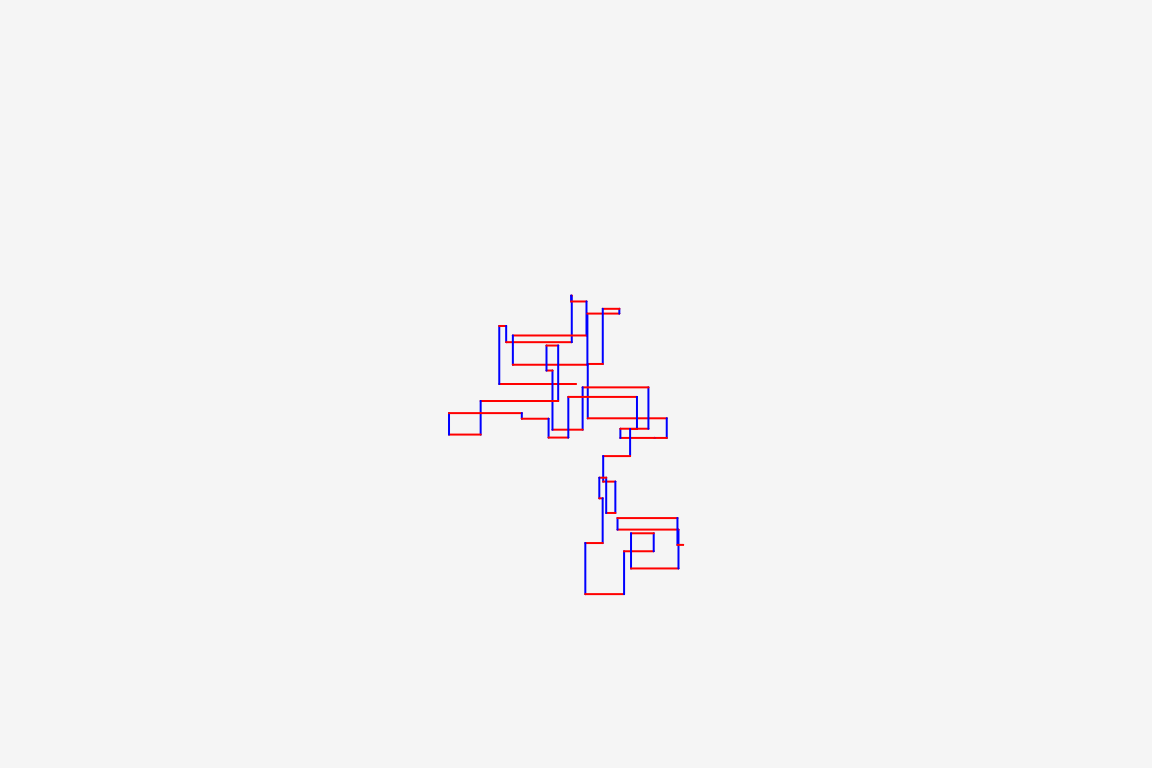
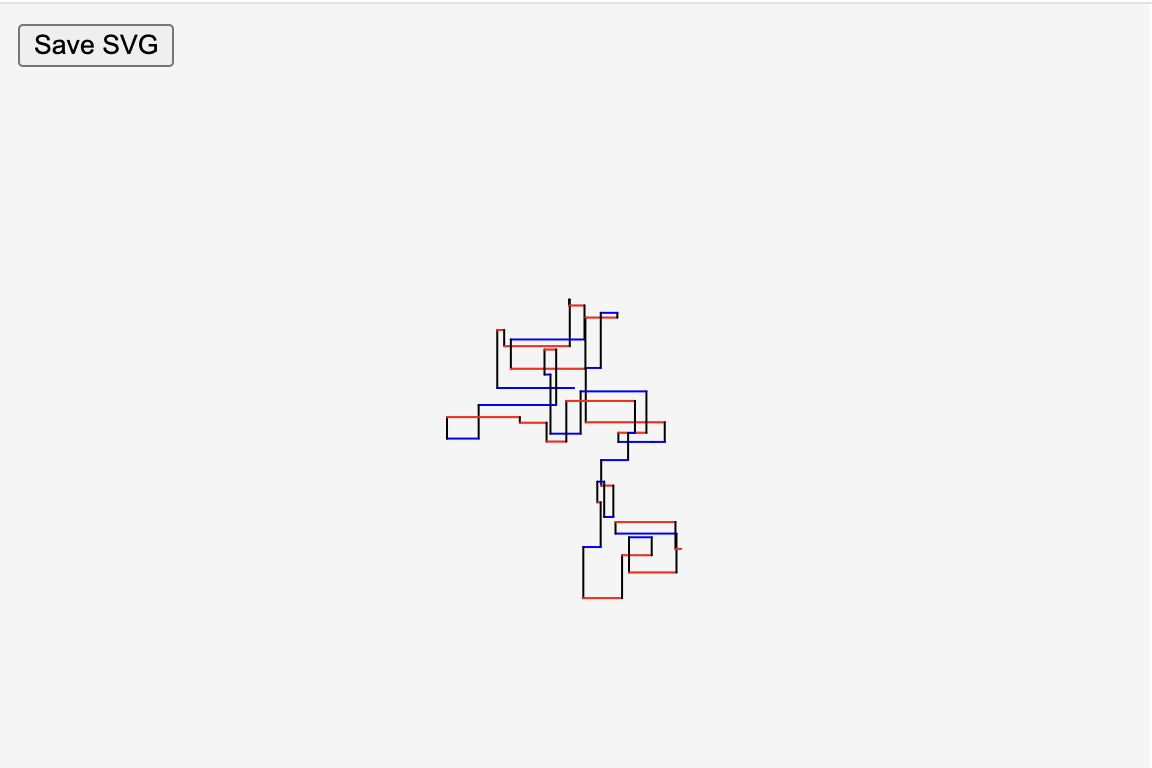
Fixed a number of bugs.

Changed region(s): [[0.375, 0.375, 0.5938, 0.5938], [0.5, 0.5938, 0.5938, 0.7812], [0.0312, 0.0312, 0.1562, 0.0938]]

diff --git a/lib/p5.plotSvg.js b/lib/p5.plotSvg.js
@@ -50,6 +50,8 @@
   let _svgGroupLevel = 0; 
   let _commands = [];
   let _vertexStack = []; // Temp stack for polyline/polygon vertices
+  let _groupStack = [];  // Stack for tracking open groups (for unclosed group detection)
+  let _hasNonDefaultStrokeColor = false; // True if user has used any non-default stroke color
   let _injectedHeaderAttributes = []; // Attributes to inject into the SVG header
   let _injectedDefs = []; 
   let _shapeMode = "simple"; // Track mode: "simple" or "complex"
@@ -159,6 +161,8 @@
     p5plotSvg._commands = _commands; 
     
     _vertexStack = [];
+    _groupStack = [];
+    _hasNonDefaultStrokeColor = false;
     _injectedHeaderAttributes = [];
     _injectedDefs = [];
     _svgGroupLevel = 0;
@@ -1095,6 +1099,19 @@
    */
   function exportSVG() {
     let svgContent = "";
+
+    // Check for unclosed groups and auto-close them with a warning
+    if (_groupStack.length > 0) {
+      const unclosedNames = _groupStack.slice().reverse();
+      console.warn(`p5.plotSvg warning: ${_groupStack.length} unclosed group(s) detected. ` +
+        `Missing endSvgGroup() for: ${unclosedNames.map(n => `"${n}"`).join(', ')}. ` +
+        `Auto-closing to produce valid SVG.`);
+      // Auto-close the unclosed groups
+      while (_groupStack.length > 0) {
+        _commands.push({ type: 'endGroup' });
+        _groupStack.pop();
+      }
+    }
 
     // Auto-inject Inkscape namespace if compatibility mode is enabled and groups exist
     if (_svgInkscapeCompatibility) {
@@ -2422,6 +2439,7 @@
       }
 
       _commands.push(group);
+      _groupStack.push(group.gname || '(unnamed group)');
     }
   };
 
@@ -2434,6 +2452,9 @@
     // Push an 'endGroup' command to signify closing the group
     if (_bRecordingSvg) {
       _commands.push({ type: 'endGroup' });
+      if (_groupStack.length > 0) {
+        _groupStack.pop();
+      }
     }
   }
 
@@ -3207,8 +3228,11 @@
    * @returns {string} - The SVG stroke style string or an empty string if the stroke matches the default.
    */
   function getSvgStrStroke() {
-    // Add stroke style only if it differs from the default
-    if (_svgGroupByStrokeColor || !areColorsEqual(_svgCurrentStrokeColor, _svgDefaultStrokeColor)) {
+    // Add stroke style if:
+    // - grouping by stroke color is enabled, OR
+    // - any non-default color has been used (so all colors are explicit), OR
+    // - current color differs from the default
+    if (_svgGroupByStrokeColor || _hasNonDefaultStrokeColor || !areColorsEqual(_svgCurrentStrokeColor, _svgDefaultStrokeColor)) {
       let colorStr = _svgCurrentStrokeColor;
 
       // If the color is in rgba format, strip out the alpha channel and convert to hex
@@ -3267,6 +3291,10 @@
   function handleSvgStrokeCommand(cmd) {
     // Update the current stroke color
     _svgCurrentStrokeColor = cmd.color;
+    // Track if any non-default color has been used
+    if (!areColorsEqual(cmd.color, _svgDefaultStrokeColor)) {
+      _hasNonDefaultStrokeColor = true;
+    }
   }
 
 

diff --git a/examples/plotSvg_post_grouping/README.md b/examples/plotSvg_post_grouping/README.md
@@ -1,7 +1,10 @@
 # plotSvg_post_grouping Example
 
-The `plotSvg_post_grouping` example demonstrates how to use the `setSvgMergeNamedGroups()` function to merge groups of SVG paths, even if the paths were computed at different times, *so long as the SVG groups have the same name*. This is useful for grouping together paths that should be plotted with (e.g.) the same color pen. The implementation of this functionality is thanks to the contribution of Lionel Ringenbach ([@Ucodia](https://github.com/ucodia)) and is supported in p5.plotSvg 0.1.5+.
+The `plotSvg_post_grouping` example demonstrates how to use the `setSvgMergeNamedGroups()` function to merge groups of SVG paths, even if the paths were computed at different times, *so long as the SVG groups have the same name*. The implementation of this functionality is thanks to the contribution of Lionel Ringenbach ([@Ucodia](https://github.com/ucodia)) and is supported in p5.plotSvg 0.1.5+.
 
+To create a group of paths that are specifically intended to plotted with the same color pen, the `setSvgGroupByStrokeColor()` is a complementary choice. By contrast, the `setSvgMergeNamedGroups()` function is more open-ended, conceptually.
+
+Note that groups created with the `beginSvgGroup()`/`endSvgGroup()` functions will be emitted with Inkscape-specific tags that enable compatibility with Inkscape's "layer" functionality, *unless* the user has called `setSvgInkscapeCompatibility(false)`.
 
 ![post_grouping.png](post_grouping.png)
 
@@ -11,13 +14,13 @@ Code:
 * At Github: [sketch.js](https://raw.githubusercontent.com/golanlevin/p5.plotSvg/refs/heads/main/examples/plotSvg_post_grouping/sketch.js)
 * A related example by @Ucodia can be found [here](https://editor.p5js.org/golan/sketches/k3xWBNTND)
 
-In the example provided here, a `for` loop in the `draw()` function accumulates 75 steps of a "drunk walk", alternately pushing a tracer at `(px,py)` horizontally and vertically by random amounts. Horizontal movements are shown with a red line, and vertical movements are shown with a blue line. In the [resulting SVG](post_grouping.svg), the horizontal and vertical lines are placed into separate SVG groups, e.g.:
+In the example provided here, a `for` loop in the `draw()` function accumulates 75 steps of a "drunk walk", alternately pushing a tracer at `(px,py)` horizontally and vertically by random amounts. Horizontal movements are shown with a red or blue line, and vertical movements are shown with a black line. In the [resulting SVG](post_grouping.svg), the horizontal lines and vertical lines are each placed into separate SVG groups, e.g.:
 
 ```xml
-  <g id="horizontalLines">
-    <line x1="300" y1="200" x2="271.5501" y2="200" style="stroke:red;"/>
-    <line x1="271.5501" y1="224.2344" x2="257.3954" y2="224.2344" style="stroke:red;"/>
-    <line x1="257.3954" y1="250.4216" x2="222.5099" y2="250.4216" style="stroke:red;"/>
+  <g id="horizontalLines" inkscape:groupmode="layer" inkscape:label="1_horizontalLines">
+    <line x1="288.0000" y1="192.0000" x2="249.6322" y2="192.0000" style="stroke:blue;"/>
+    <line x1="249.6322" y1="162.9929" x2="253.0847" y2="162.9929" style="stroke:red;"/>
+    <line x1="253.0847" y1="171.0871" x2="285.8870" y2="171.0871" style="stroke:red;"/>
     ...
 ```
 
@@ -25,7 +28,7 @@ Program code:
 
 ```js
 // plotSvg_post_grouping: lines grouped by their color.
-// Click to re-generate design; press 's' to export SVG.
+// Click to re-generate design; press button to export SVG.
 // Demonstrates post-hoc merging of groups, using
 // setSvgMergeNamedGroups(true). This function is 
 // useful for grouping together lines that are computed
@@ -38,31 +41,37 @@ let bDoExportSvg = false;
 let myRandomSeed = 12345;
 
 function setup(){
-  createCanvas(600, 400);
-  setSvgMergeNamedGroups(true); // Groups the lines!
+  createCanvas(6 * 96, 4 * 96); // 6x4 inches at 96dpi
+  setSvgMergeNamedGroups(true); // Groups elements within a user-defined group
+
+  /* Groups elements with the same color. Uncomment this to see how: */
+  // setSvgGroupByStrokeColor(true); 
+  
+  let saveButton = createButton("Save SVG");
+  saveButton.position(10, 10);
+  saveButton.mousePressed((event) => {
+    event.stopPropagation();
+    bDoExportSvg = true;
+  });
 }
 
 function mousePressed(){
   myRandomSeed = millis(); 
 }
 
-function keyPressed(){
-  if (key == 's'){ 
-    bDoExportSvg = true; 
-  }
-}
-
 function draw(){
   randomSeed(myRandomSeed);
-  background(255); 
+  background(245); 
+  strokeWeight(1); 
   
   if (bDoExportSvg){
     beginRecordSvg(this, "post_grouping.svg");
   }
 
   // Do a drunk walk, alternating horizonal and vertical moves. 
-  // Horizonal lines are red, vertical lines are blue.
-  // Ensure that like-colored lines are grouped together.
+  // Horizonal lines are red or blue, while all vertical lines are black.
+  // setSvgMergeNamedGroups(true) ensures that lines inside
+  // the same named group are (eventually) grouped together.
   let px = width/2; 
   let py = height/2;
   for (let i=0; i<75; i++){
@@ -72,14 +81,20 @@ function draw(){
     if (i%2 == 0){
       qx += 40 * random(-1,1); 
       beginSvgGroup("horizontalLines");
-      stroke('red'); 
+      if (qx > px){
+        // lines moving to the right are red
+        stroke('red');
+      } else {
+        // lines moving to the left are blue
+        stroke('blue');
+      }
       line(px,py, qx,qy); 
       endSvgGroup(); 
       
     } else {
       qy += 30 * random(-1,1); 
       beginSvgGroup("verticalLines"); 
-      stroke('blue'); 
+      stroke('black'); 
       line(px,py, qx,qy); 
       endSvgGroup(); 
     } 
@@ -92,5 +107,4 @@ function draw(){
     endRecordSvg();
     bDoExportSvg = false;
   }
-}
-```
+}```
